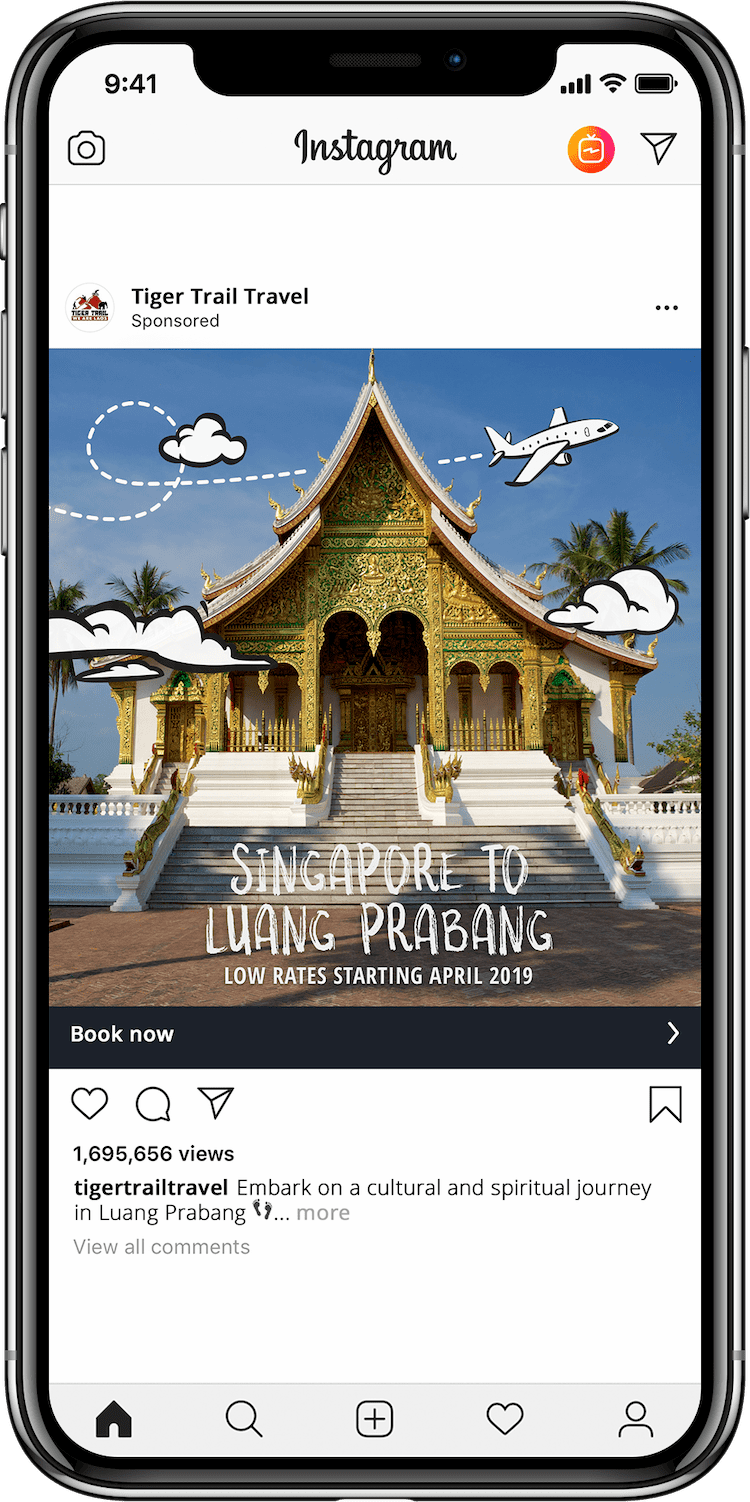
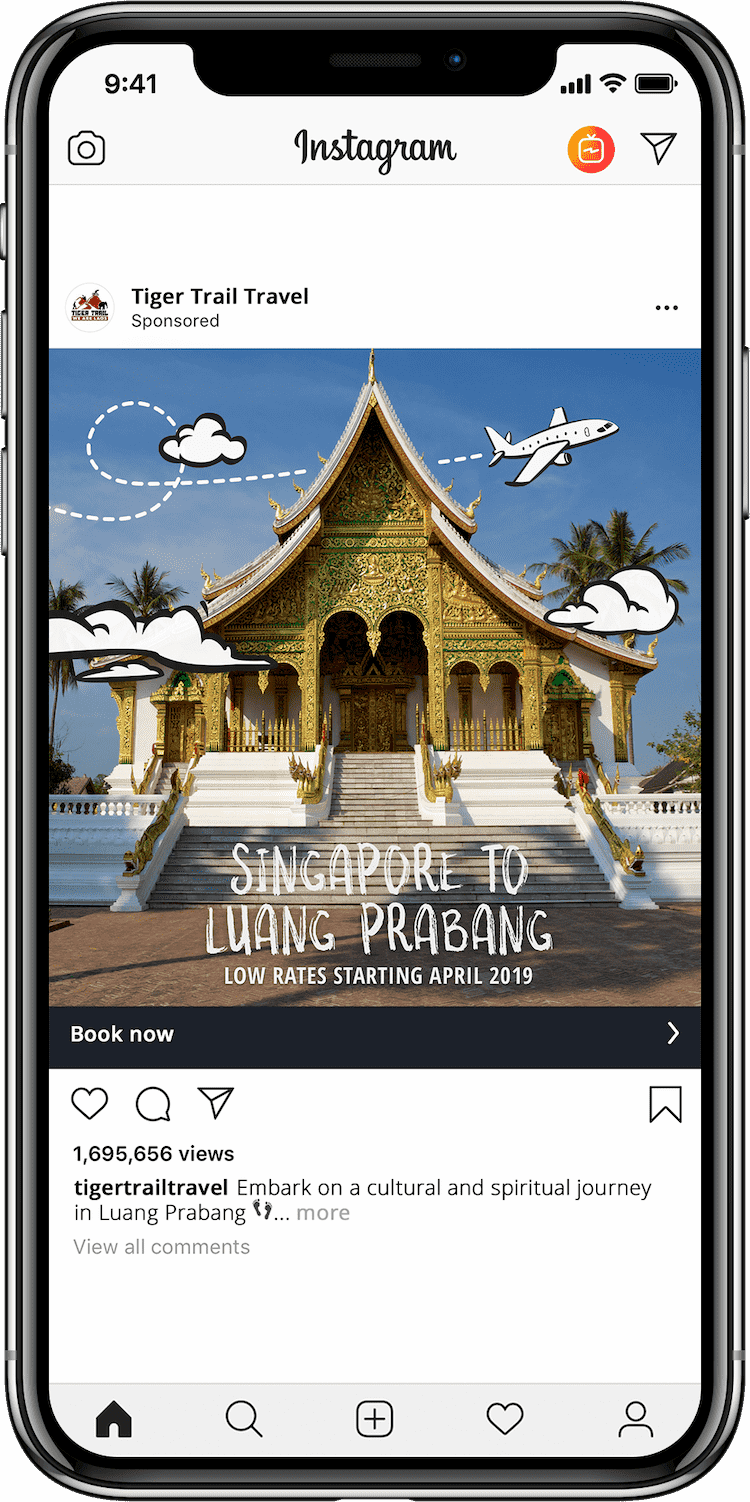
Updated content on Microsite project, removed extra wording and added image of Singapore.

diff --git a/work/tiger-trail-microsite.html b/work/tiger-trail-microsite.html
@@ -42,49 +42,60 @@
 
     <!-- Cover Image -->
     <img class="h-64 md:h-full object-cover md:object-contain w-full" src="../assets/images/work/cover/Tiger_Trail_Microsite.jpg" alt="iPhone X Microsite Design">
+
     <!-- Background -->
-    <div class="flex bg-red-700">
+    <div class="flex bg-tt">
       <div class="self-center text-center mx-auto md:w-2/3 md:py-64 px-8 py-16">
           <span class="block font-thin text-md md:text-lg text-white uppercase tracking-widest py-2">Background</span>
           <hr class="block border-t border-white w-16">
-          <span class="block text-xl font-thin text-white py-2 leading-tight md:text-3xl md:leading-normal">A marketing campaign was built around two microsites for a local DMC to provide a quick method for booking tours.</span>
+          <span class="block text-xl font-thin text-white py-2 leading-tight md:text-3xl md:leading-normal">Luang Prabang is a relatively unknown and untapped destination. Travel agencies lack online tools and are slow to confirm bookings. The goal was a ROI-driven social media campaign to book tour packages quickly on a microsite.</span>
       </div>
     </div>
 
     <!-- Target Audience -->
-    <div class="flex bg-gray-400">
+    <div class="flex flex-wrap">
+      <div class="self-center mx-auto">
+        <img class="w-full h-full object-cover" src="../assets/images/garden-by-the-bay-503897_1920.jpg">
+      </div>
+    </div>
+
+    <div class="flex flex-wrap bg-gray-400">
       <div class="self-center text-center mx-auto md:w-2/3 md:py-64 px-8 py-16">
           <span class="block font-thin text-md md:text-lg text-gray-900 uppercase tracking-widest py-2">Target Audience</span>
           <hr class="block border-t border-gray-900 w-16">
           <span class="block text-xl font-thin text-gray-900 py-2 leading-tight md:text-3xl md:leading-normal">Travellers 25-30 years old living in large Asian cities who are seeking a short break of 2-3 days. These people are looking for nature, culture and adventure. They are middle-class, impatient, crave selfies, need flexibility and are tech-savvy. We chose Singapore as our target city.</span>
       </div>
     </div>
+    </div>
 
     <!-- Challenge -->
-    <div class="flex flex-wrap">
+    <!-- <div class="flex flex-wrap">
     <div class="flex flex-wrap bg-gray-200 lg:w-1/2">
       <div class="self-center text-center mx-auto md:w-2/3 md:py-64 px-8 py-16">
           <span class="block font-thin text-md md:text-xl text-gray-900 uppercase tracking-widest py-2">Challenge</span>
           <hr class="block border-t border-gray-900 w-16">
           <span class="block text-xl font-thin text-gray-900 py-2 leading-tight md:text-3xl md:leading-normal">Luang Prabang has strong cultural traditions and scenic landscapes, yet it is still relatively unknown. Local DMCs lack online booking engines and use e-mail to confirm bookings.</span>
       </div>
-    </div>
+    </div> -->
 
     <!-- Solution -->
-    <div class="flex flex-wrap bg-red-900 lg:w-1/2">
+    <!-- <div class="flex flex-wrap bg-red-900 lg:w-1/2">
       <div class="self-center text-center mx-auto md:w-2/3 md:py-64 px-8 py-16">
           <span class="block font-thin text-md md:text-xl text-white uppercase tracking-widest py-2">Solution</span>
           <hr class="block border-t border-white w-16">
           <span class="block text-xl font-thin text-white py-2 leading-tight md:text-3xl md:leading-normal">The goal is to create a ROI-driven social media campaign to promote special tour packages with a faster booking solution.</span>
       </div>
     </div>
-    </div>
+    </div> -->
+
+    <!-- Deliverables -->
 
     <!-- Advertisements -->
     <div class="flex bg-gray-200">
       <div class="w-screen self-center text-center mx-auto md:w-2/3 md:py-64 px-8 py-16">
           <span class="block font-thin text-md lg:text-xl text-gray-900 uppercase tracking-widest py-2">Advertisements</span>
           <hr class="block border-t border-gray-900 w-16">
+          <span class="block text-xl font-thin text-gray-900 py-2 leading-tight md:text-3xl md:leading-normal">We told a story through a carousel of 4 images in Facebook and Instagram ads.</span>
           <div class="center py-4 -mx-8">
             <div><img class="px-2" src="../assets/images/work/slider/Microsite_3-Day_Slide_01.jpg"></div>
             <div><img class="px-2" src="../assets/images/work/slider/Microsite_3-Day_Slide_02.jpg"></div>
@@ -110,6 +121,7 @@
       <div class="w-screen self-center text-center mx-auto md:w-2/3 md:py-64 px-8 py-16">
           <span class="block font-thin text-md md:text-xl text-gray-900 uppercase tracking-widest py-2">Testimonial Ads</span>
           <hr class="block border-t border-gray-900 w-16">
+          <span class="block text-xl font-thin text-gray-900 py-2 leading-tight md:text-3xl md:leading-normal">The second phase of our campaign was a carousel of testimonials written by actual Singaporeans.</span>
           <div class="center py-4 -mx-8">
             <div><img class="px-2" src="../assets/images/work/slider/Microsite_Testimonial_Ad_1.jpg"></div>
             <div><img class="px-2" src="../assets/images/work/slider/Microsite_Testimonial_Ad_2.jpg"></div>
@@ -120,14 +132,23 @@
     </div>
 
     <!-- Microsite -->
-    <div class="flex bg-red-800">
+    <div class="flex bg-gray-400">
       <div class="w-screen self-center text-center mx-auto md:w-2/3 md:py-64 px-8 py-16">
-          <span class="block font-thin text-md md:text-xl text-white uppercase tracking-widest py-2">Microsite</span>
-          <hr class="block border-t border-white w-16">
-          <div class="center-2 py-4 -mx-8">
+          <span class="block font-thin text-md md:text-xl text-gray-900 uppercase tracking-widest py-2">Microsite</span>
+          <hr class="block border-t border-gray-900 w-16">
+          <span class="block text-xl font-thin text-gray-900 py-2 leading-tight md:text-3xl md:leading-normal">We launched two mobile microsites for the 2-day and 3-day tours.</span>
+          <div class="center-2 py-4 -mx-8 -mb-40">
             <div><img class="px-2" src="../assets/images/work/slider/iPhoneX_Mockup_Microsite_3-Days_1.png"></div>
             <div><img class="px-2" src="../assets/images/work/slider/iPhoneX_Mockup_Microsite_3-Days_2.png"></div>
           </div>
+      </div>
+    </div>
+
+    <!-- Conclusion -->
+    <div class="flex bg-gray-200 pt-16">
+      <div class="w-screen self-center text-center mx-auto md:w-2/3 md:py-64 px-8 py-16">
+        <button class="my-2 text-gray-900 font-semibold text-base rounded-lg border-2 border-gray-900 px-4 py-2"> <a href="https://2-day.laos-adventures.com" target="_blank">2-day.laos-adventures.com</a></button>
+        <button class="my-2 text-gray-900 font-semibold text-base rounded-lg border-2 border-gray-900 px-4 py-2"><a href="https://3-days.laos-adventures.com" target="_blank">3-days.laos-adventures.com</a></button></span>
       </div>
     </div>
 

diff --git a/assets/css/main.css b/assets/css/main.css
@@ -93,6 +93,10 @@ button:focus {
   background-color: #fff100;
 }
 
+.bg-tt {
+  background-color: #a71c20;
+}
+
 .center { display: none; }
 .center.slick-initialized { display: block; }
 .center-2 { display: none; }
